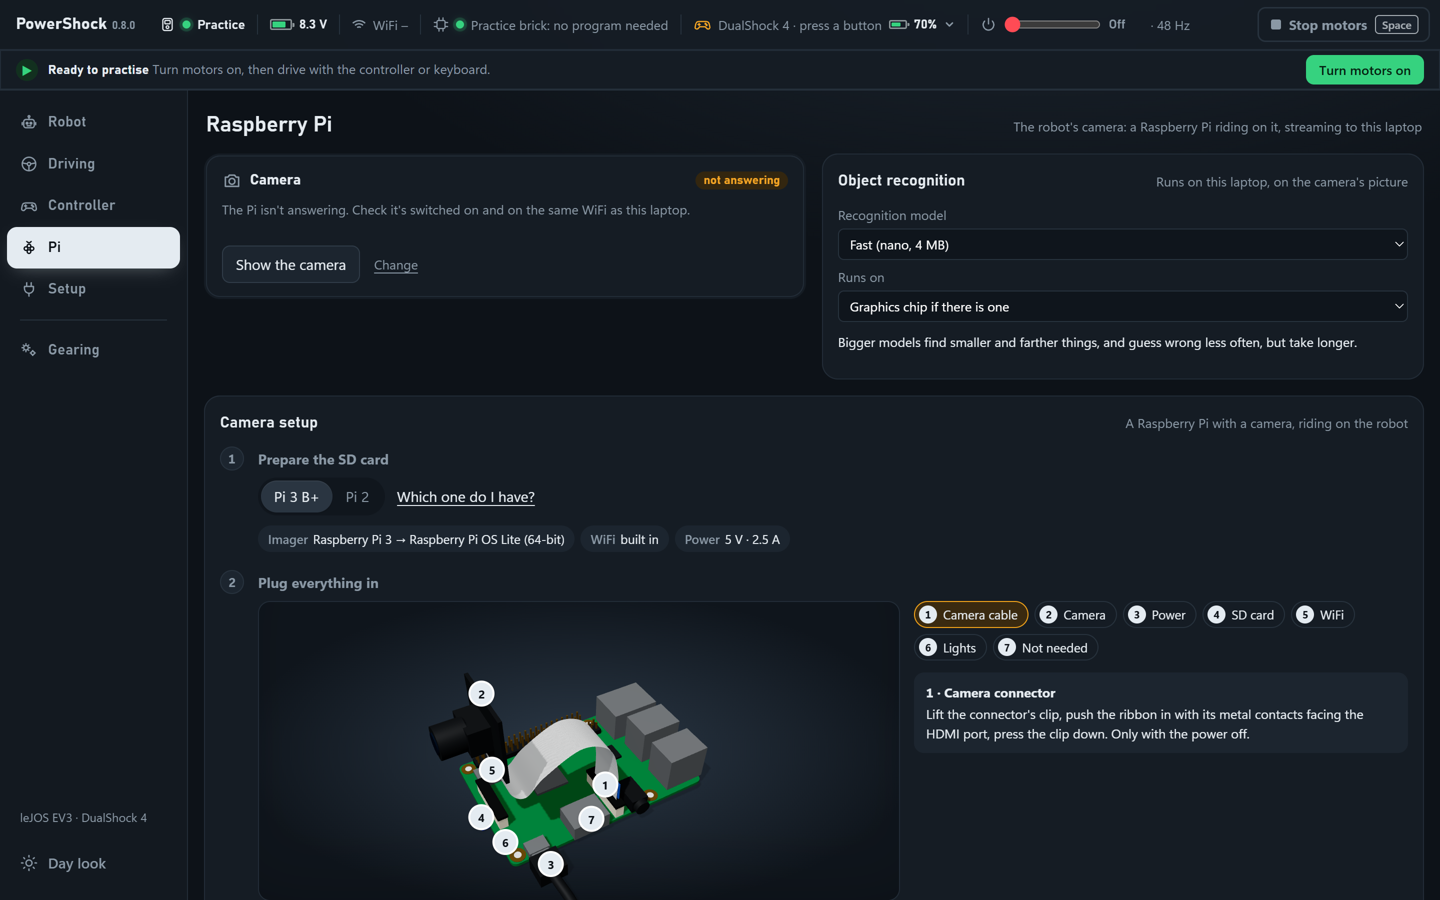
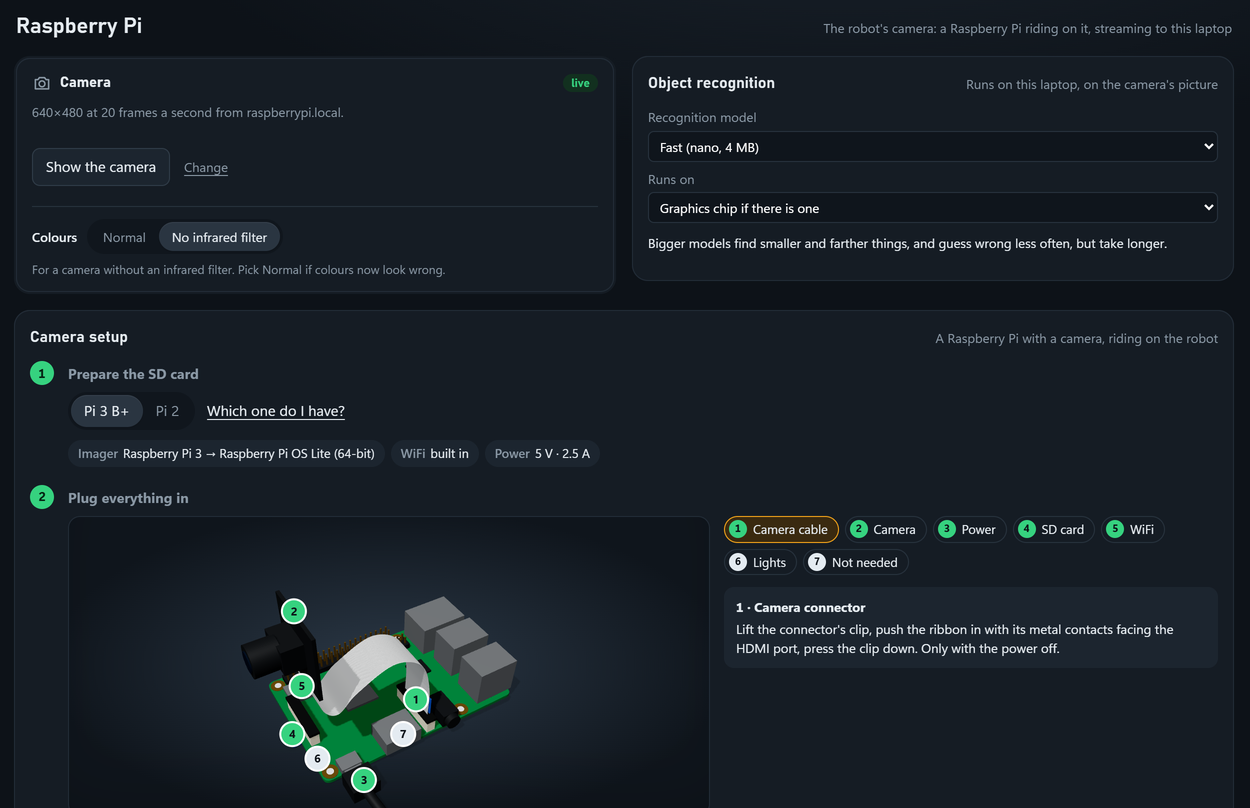
Retake the README screenshots with the new designs
All pages again, plus the robot size form and the Brick section with a
real brick. Those real-brick shots were taken through Chrome's DevTools
with the network name, addresses and the Pi's host name swapped for the
README placeholders before capture; the Setup shot's Bluetooth address
is a placeholder too.

diff --git a/README.md b/README.md
@@ -90,7 +90,7 @@ Give the robot eyes: a Raspberry Pi with a camera rides on it and streams live v
 - **In the console:** the **Pi** page takes the Pi's address and the access key it prints.
 - **Setup guide:** [docs/CAMERA.md](docs/CAMERA.md) covers the SD card, connecting the camera, the access key and starting at boot.
 
-![The Pi page: the camera's state, the object recognition model, and how to set up the Pi, with a 3D Raspberry Pi showing where each cable goes](docs/screenshots/pi.png)
+![The Pi page: the camera live, with Colours set to No infrared filter; the object recognition model; and how to set up the Pi, with a 3D Raspberry Pi showing where each cable goes](docs/screenshots/pi.png)
 
 ### Object recognition (optional)
 
@@ -118,6 +118,8 @@ A live 3D map of what the robot's sensors find while it drives, seen from behind
 - **Gyro sensor,** if you have one: keeps the heading accurate.
 
 Plug a sensor into any sensor port; it's picked up within a few seconds. The robot's position is worked out from its wheels, so set its sizes to match your robot (Robot page, **Your robot** → **Edit sizes and where things sit**): wheel diameter, wheel spacing, axle spacing, and where the sensors sit. If there are gears between the drive motor and the wheels (a gearbox, or the ring on a differential), set **Motor turns per wheel turn**: roll the robot until a wheel turns once and count how often the motor turned. Leave it at 1 when the motor turns the wheel directly. Without it, speed and distance come out wrong by the same factor. **Weight** (in grams, the whole robot with batteries, from a kitchen scale) is kept for later planning; nothing uses it yet. In Practice mode, the pretend robot drives around a small room with two boxes, blue tape and a red mat.
+
+![Edit sizes and where things sit: wheels and drive, sensors, and camera, each with a small drawing of what to measure and its unit](docs/screenshots/sizes.png)
 
 What to expect from the sensors that come with EV3 sets:
 
@@ -205,9 +207,11 @@ Everything the robot needs before driving, in the order you need it:
    - **The laptop** must be on the same home network as the brick and the Pi. A router and its extenders, or a mesh, are one network, even with different names.
    - **Enter address** connects to the brick by its IP address.
 2. **Program on the brick:** is PowerShock on the brick, and is it this version? **Upload latest build**, **Start**, **Stop**.
-3. **Brick:** battery, memory, versions, and what's plugged into each port, with LEGO's specs.
+3. **Brick:** battery, memory, what's plugged into each port with LEGO's specs, and the brick's software, Bluetooth and WiFi, with the link this laptop uses marked **In use**.
 
-![The Setup page: connect over Bluetooth, WiFi or Practice, the program on the brick, and the brick's ports](docs/screenshots/setup.png)
+![The Setup page in Practice: connect over Bluetooth, WiFi or Practice, and the program on the brick](docs/screenshots/setup.png)
+
+![The Brick section with a real brick on WiFi: battery, memory and SD card, the ports, and the brick's software, Bluetooth and WiFi with WiFi in use](docs/screenshots/brick.png)
 
 ## Safety and security
 

diff --git a/CHANGELOG.md b/CHANGELOG.md
@@ -24,7 +24,7 @@ All notable changes to PowerShock. The format follows [Keep a Changelog](https:/
 ### Changed
 - **The Driving tab** has a steering wheel icon.
 - **The live map takes a fifth less room** on screens 1280 px wide or less, like the other 3D views.
-- **New screenshots in the README** for every page, including the Pi page.
+- **New screenshots in the README** for every page, including the Pi page, the robot size form, and the brick's details on Setup.
 - **The robot size form** is in three groups (wheels and drive, sensors, camera), each with a small drawing whose line lights up for the box you're editing; every box shows its unit (mm, °, ×, g) and a one-line hint.
 - **The brick's details** on the Setup page are three rows (Software, Bluetooth, WiFi), each with an icon, its state, one main value and small labelled chips. The link this laptop is using is marked **In use**, and WiFi shows the brick's signal.
 - **The Map is part of the Driving page:** the live map, with its readout and the sensors beside it, sits on top, and how the robot drives (speed boost, the obstacle brake, the car's limits, the motor ports) below. The Map tab is gone; old links to it open Driving. The brake's live state shows once, by the map.
